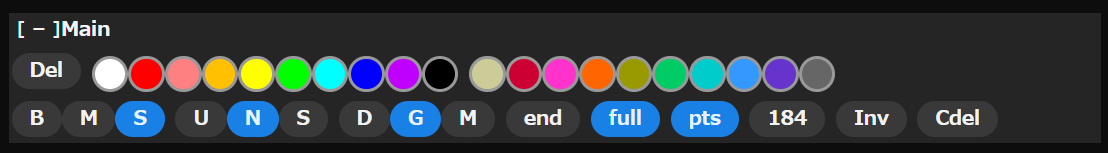
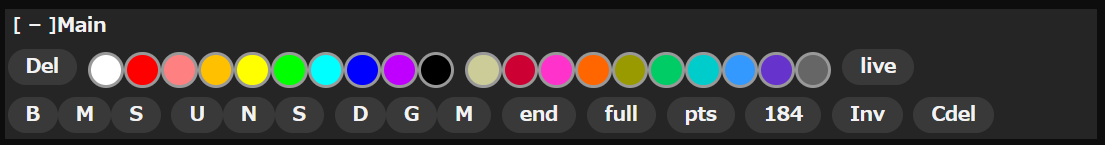
docs: update manual to include _live toggle button and related settings

diff --git a/MANUAL.md b/MANUAL.md
@@ -77,19 +77,26 @@
 
 - レイヤー番号
 - 表示/非表示切り替え
+- `_live`切り替え: [設定(`Editor>_live切り替えボタンを表示`)](#editor)で表示させることができる。
 - レイヤー名: ダブルクリックで編集可能。[設定(`Output>レイヤー名をコマンドに追加`)](#output)で出力のコマンドにレイヤー名を追加できる。
 - ue/naka/shita 切り替え: 一部の pos に対応していないテンプレートもある。
 - gothic/mincho 切り替え
 - レイヤー CSS 設定: そのレイヤーの表示 CSS を編集できる。より適切なパラメータが見つかった場合、制作者に伝えてほしい。
 - レイヤー削除
 
-レイヤーリスト右の枠で囲まれているボタン群を用いると、選択中のレイヤーをまとめて編集できる。
+レイヤーリスト右の枠で囲まれている下記のボタン群を用いると、選択中のレイヤーをまとめて編集できる。
+
+- ue/naka/shita
+- mincho/gothic
+- 色
+- 上へ/下へ: レイヤー位置を移動する。
+- 不透明度スライダー: コメント自身の不透明度を調整できる。`_live`の場合は 0.5 倍される。
 
 ### 背景設定
 
 <img src="img/screenshot_trace_background.png" alt="背景設定のスクリーンショット" />
 
-レイヤーの後ろに表示させる背景画像を設定できる。
+レイヤーの後ろに表示させる背景画像を設定できる。このボタンの下部にあるスライダーは背景画像の不透明度を調整できる。
 
 - `画像をパソコンから読み込む`: 画像ファイルを読み込む
 - `画像をURLから読み込む`: 画像 URL を読み込む。一部サイトは非対応なので、その場合は手動でダウンロードし、パソコンから読み込む。
@@ -143,6 +150,7 @@
 
 - `Del`: コマンド入力欄をクリアする
 - 色ボタン: それぞれの色に対応するエイリアスコマンドを追加
+- `live`: \_live
 - `B`,`M`,`S`: big, medium, small
 - `U`,`N`,`S`: ue, naka, shita
 - `D`,`G`,`M`: defont, gothic, mincho
@@ -215,6 +223,8 @@ JSON 読込ダイアログが開く。ニコ動投コメ JSON を読み込み、
   選択されているレーヤーを一番上部に表示する。無効にした場合レーヤー番号の大きいほうが上部に表示される。
 - `現在時刻をファイル名に追加` (boolean)  
   ダウンロード系の処理に対して、ファイル名にタイムスタンプを追加させる。
+- `_live切り替えボタンを表示` (boolean)  
+  レイヤーリスト上に\_live を切り替えるトグルボタンの行を表示する。
 - `セーブデータに背景画像を含める`  
   ファイルに保存から得られる `dansk.json` ファイルに、設定中の背景画像を含めることができる。
 
@@ -230,7 +240,7 @@ JSON 読込ダイアログが開く。ニコ動投コメ JSON を読み込み、
 ### Output
 
 - `コマンドの並び替え` (text)  
-  出力の際のコマンドの順番を入れ替える事ができる。`|`で区切る。(対応識別子: `layerName|ca|patissier|size|position|color|font|ender|full|original`)
+  出力の際のコマンドの順番を入れ替える事ができる。`|`で区切る。(対応識別子: `layerName|ca|patissier|size|position|color|font|ender|full|_live|original`)
 - `CAコマンドを追加` (boolean)  
   コマンドに`ca`を追加
 - `patissierコマンドを追加` (boolean)  
